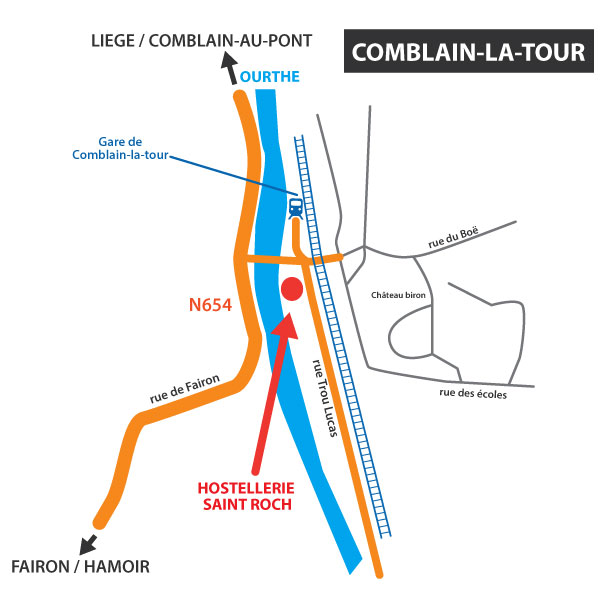
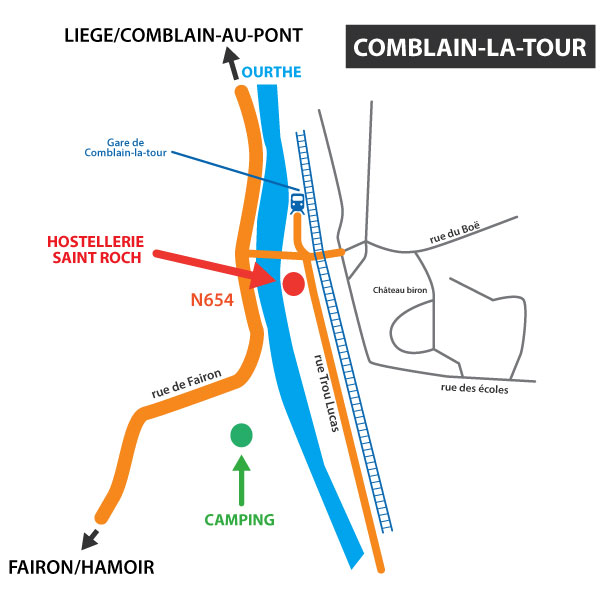
d

diff --git a/_includes/team.html b/_includes/team.html
@@ -11,7 +11,7 @@
 
                     </h4>
 
-                    <h3 class="section-subheading" style="line-height:150%"> Cliquez sur les plans d'accès afin d'obtenir le plan google map correspondant. Pour télécharger un pdf incluant les adresses et plans d'accès, <a href="http://dl.dropbox.com/u/110671384/pdf_plan_d'acces.pdf" target="_blank"> cliquez ici !</a>  <br> Notez que, si vous désirez faire les trajets en train (bonne chance...), le dernier voyage en direction de Liège partira de Comblain à 22h00, le suivant le lendemain à 8h00. <strong>Une solution plus pratique ? <a href="http://www.lerocherdelavierge.be/fr/" target="_blank"> Des emplacements de camping sont disponibles à 300 mètres de la salle Saint-Roch. </a></strong>  Idéal pour faire la fête jusqu'au bout de la nuit et rentrer en toute sécurité... 
+                    <h3 class="section-subheading" style="line-height:150%"> Cliquez sur les plans d'accès afin d'obtenir le plan google map correspondant. Pour télécharger un pdf incluant les adresses et plans d'accès, <a href="http://dl.dropbox.com/u/110671384/pdf_plan_d'acces.pdf" target="_blank"> cliquez ici !</a>  <br> Notez que, si vous désirez faire les trajets en train (bonne chance...), le dernier voyage en direction de Liège partira de Comblain à 22h00, le suivant le lendemain à 8h00. <strong>Une solution plus pratique ? </strong><a href="http://www.lerocherdelavierge.be/fr/" target="_blank"> Des emplacements de camping sont disponibles à 300 mètres de l'hostellerie Saint-Roch. </a>  Idéal pour faire la fête jusqu'au bout de la nuit et rentrer en toute sécurité... 
                     </h3>
                     
                 </div>
